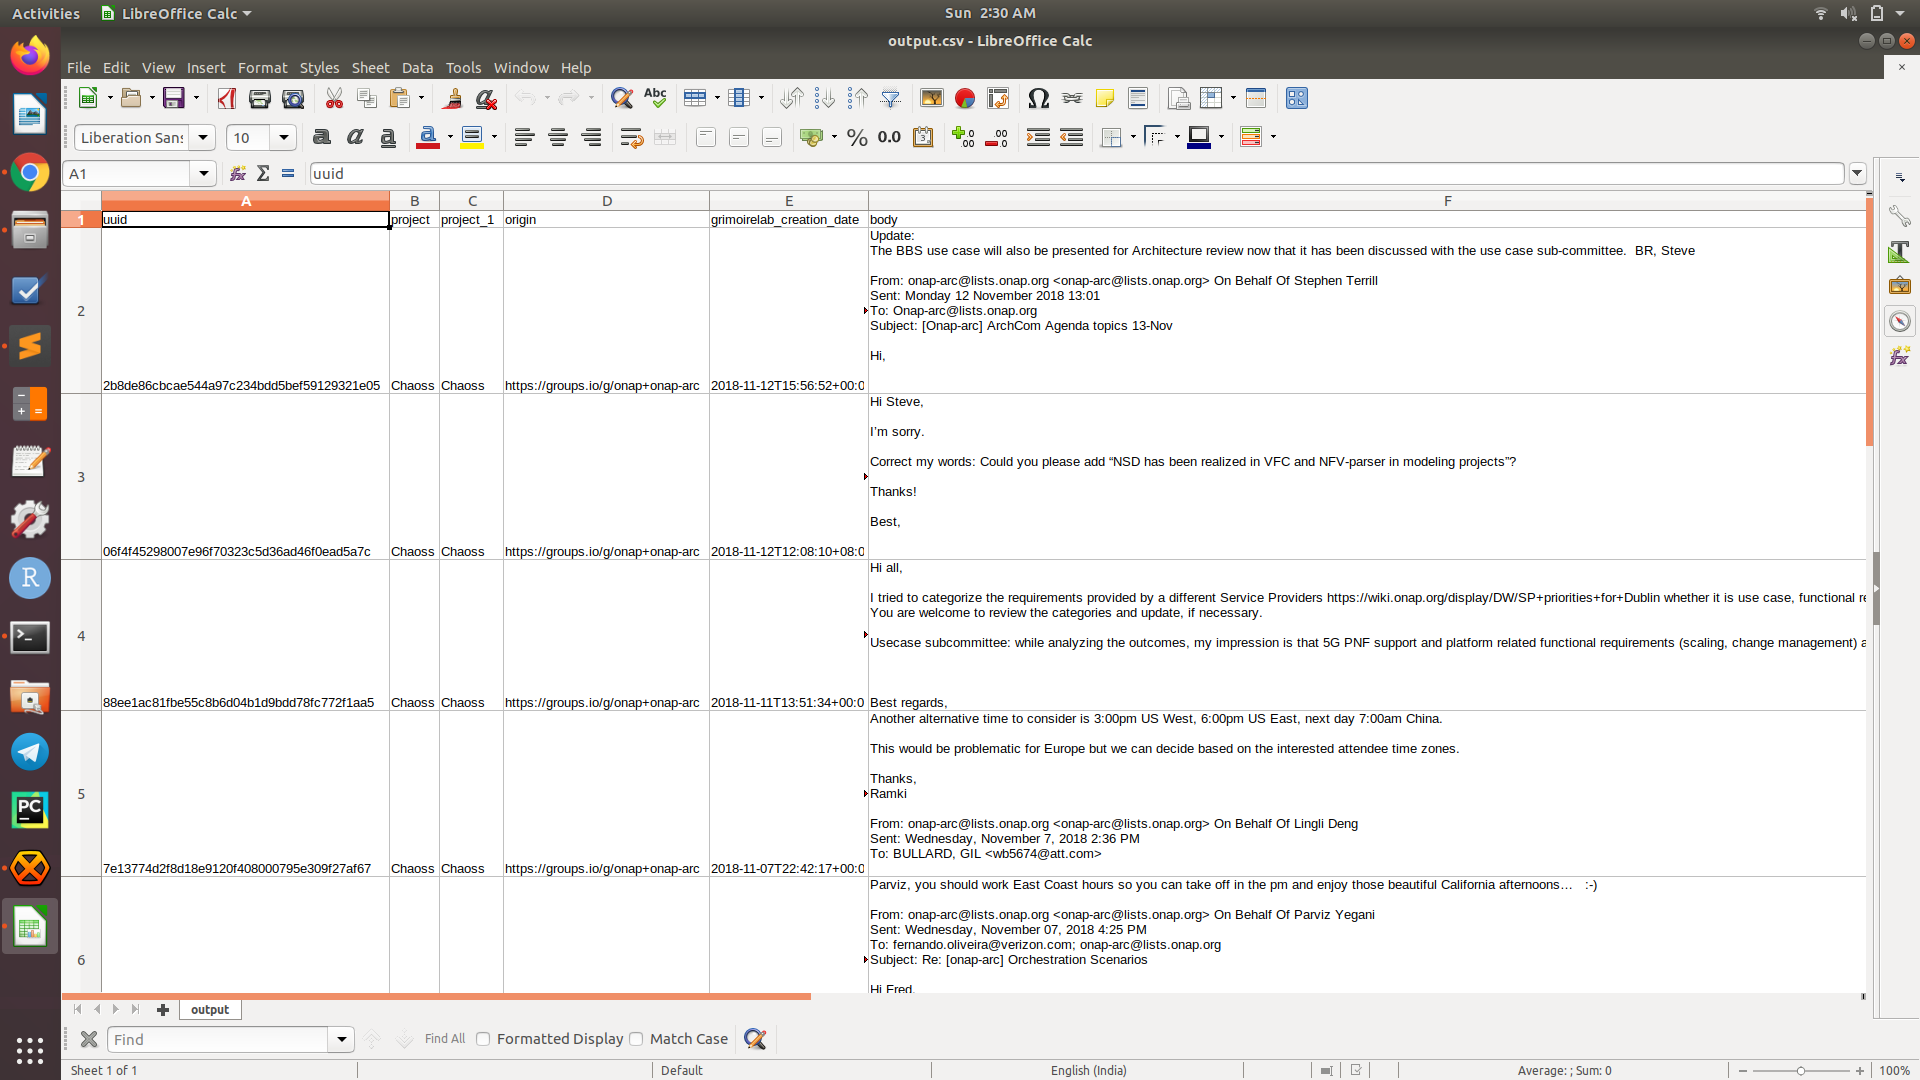
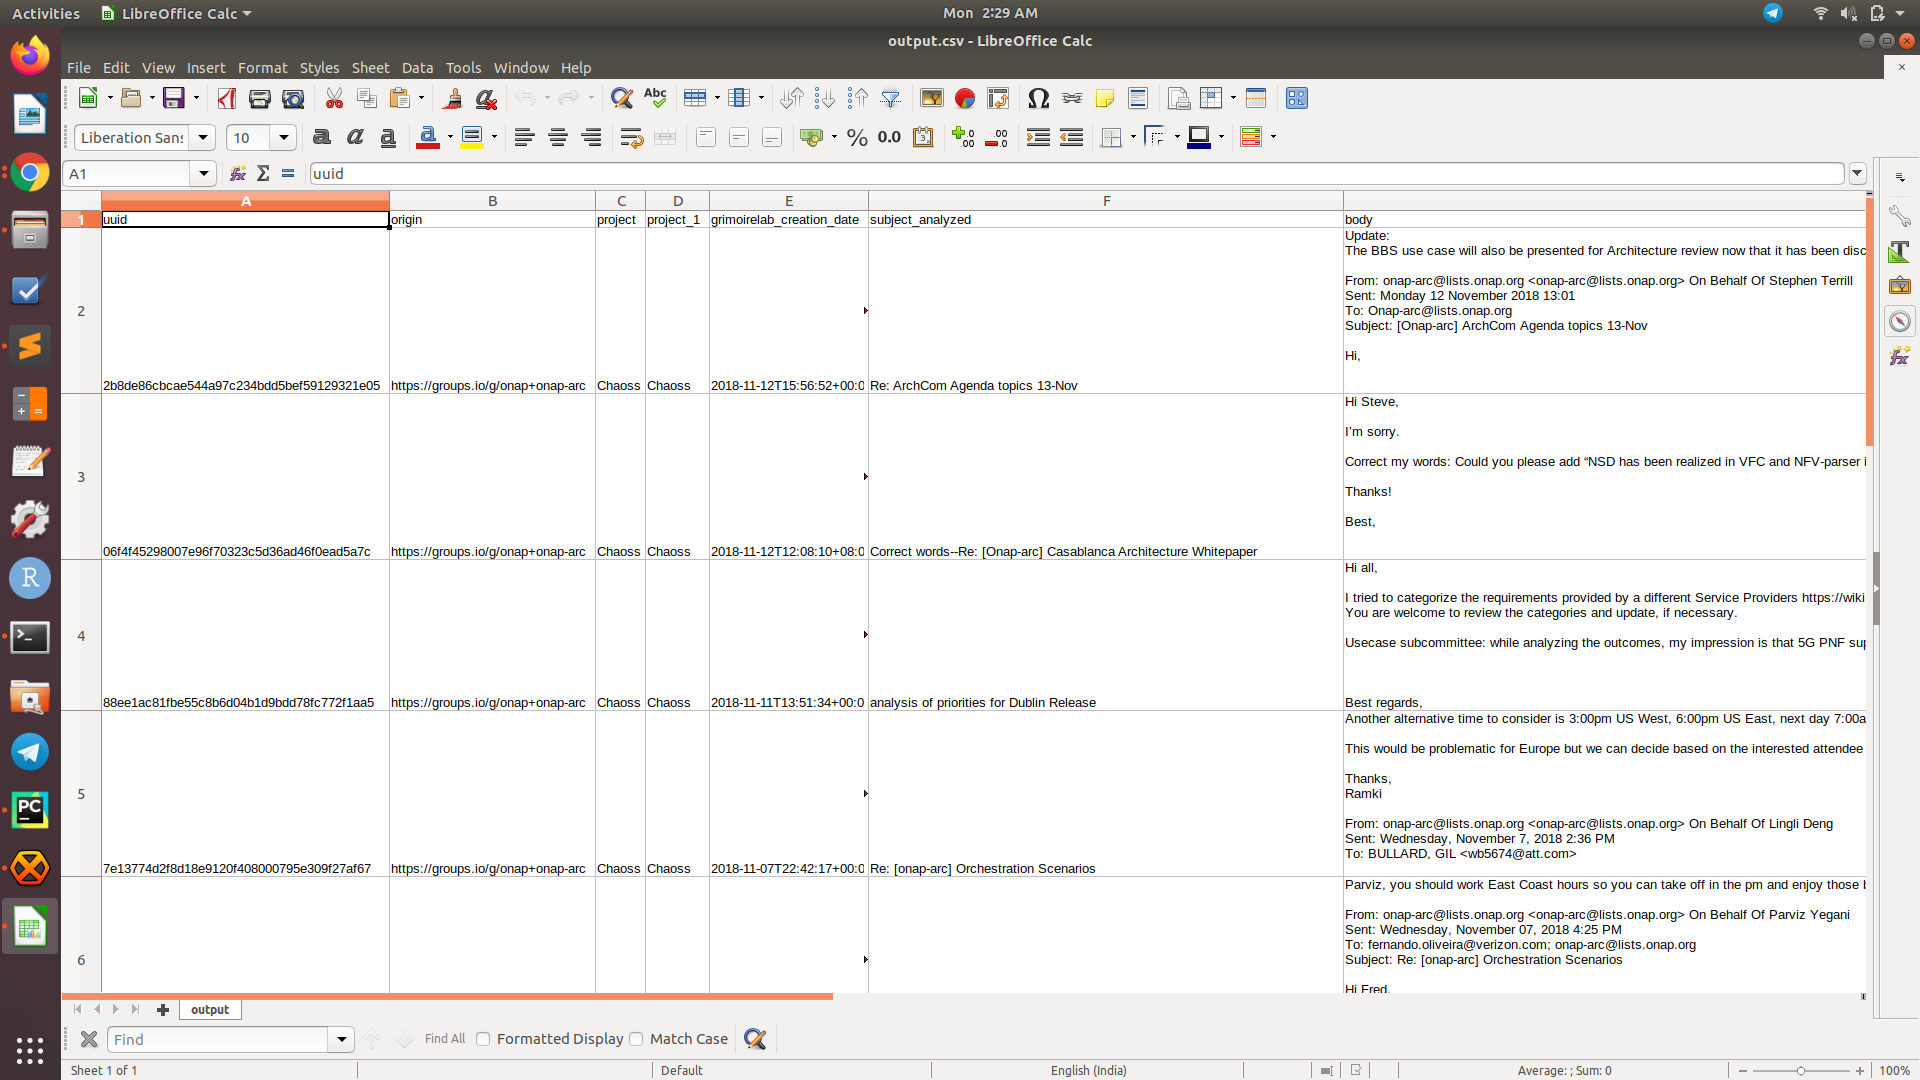
Updated Readme and added comments

diff --git a/Microtask8/script.py b/Microtask8/script.py
@@ -1,48 +1,55 @@
-"""
-Then, write a script to read the enriched index and import the attributes uuid, project, project_1, origin, grimoirelab_creation_date, body and subject_analyzed to a CSV file. 
-
-Import the obtained file to an excel sheet (in a manual or automatic way).
-"""
 from elasticsearch import Elasticsearch
 import csv
 import pandas as pd
+def search():
+	"""
+	Search all data with the index: groupsio_enriched for the attributes like uuid, origin, creation date, body text, subject and projects.
+	"""
+	#making an elasticsearch object
+	es = Elasticsearch()
 
-es = Elasticsearch()
-
-arr_uuid=[]
-arr_origin=[]
-arr_body=[]
-arr_project=[]
-arr_project_1=[]
-arr_subject_analysed=[]
-arr_grimoirelab_creation_date=[]
-
-res = es.search(index="groupsio_enriched", body={"query": {"match_all": {}}})
-for i in range(10):
-	uuid=(res['hits']['hits'][i]['_source']['uuid'])
-	origin=(res['hits']['hits'][i]['_source']['origin'])
-	grimoirelab_creation_date=(res['hits']['hits'][i]['_source']['grimoire_creation_date'])
-	body=(res['hits']['hits'][i]['_source']['body_extract'])
-	subject_analyzed=(res['hits']['hits'][i]['_source']['Subject_analyzed'])
-	project=(res['hits']['hits'][i]['_source']['project'])
-	project_1=(res['hits']['hits'][i]['_source']['project_1'])
-
-	arr_uuid.append(uuid)
-	arr_origin.append(origin)
-	arr_grimoirelab_creation_date.append(grimoirelab_creation_date)
-	arr_body.append(body)
-	arr_subject_analysed.append(subject_analyzed)
-	arr_project.append(project)
-	arr_project_1.append(project_1)
+	#arrays of attributes to be represented in a dataframe.
+	arr_uuid=[]
+	arr_origin=[]
+	arr_body=[]
+	arr_project=[]
+	arr_project_1=[]
+	arr_subject_analysed=[]
+	arr_grimoirelab_creation_date=[]
 
 
-df=pd.DataFrame({'uuid':arr_uuid,'origin':arr_origin,'project':arr_project,'project_1':arr_project,'grimoirelab_creation_date':arr_grimoirelab_creation_date,'subject_analyzed':arr_subject_analysed,'body':arr_body})
-print(df)
-df.to_csv("output.csv")
-df.to_excel("output.xlsx", index=None)
+	res = es.search(index="groupsio_enriched", body={"query": {"match_all": {}}})
+	for i in range(10):
+		uuid=(res['hits']['hits'][i]['_source']['uuid'])
+		origin=(res['hits']['hits'][i]['_source']['origin'])
+		grimoirelab_creation_date=(res['hits']['hits'][i]['_source']['grimoire_creation_date'])
+		body=(res['hits']['hits'][i]['_source']['body_extract'])
+		subject_analyzed=(res['hits']['hits'][i]['_source']['Subject_analyzed'])
+		project=(res['hits']['hits'][i]['_source']['project'])
+		project_1=(res['hits']['hits'][i]['_source']['project_1'])
+
+		arr_uuid.append(uuid)
+		arr_origin.append(origin)
+		arr_grimoirelab_creation_date.append(grimoirelab_creation_date)
+		arr_body.append(body)
+		arr_subject_analysed.append(subject_analyzed)
+		arr_project.append(project)
+		arr_project_1.append(project_1)
 
 
+	df=pd.DataFrame({'uuid':arr_uuid,'origin':arr_origin,'project':arr_project,'project_1':arr_project_1,'grimoirelab_creation_date':arr_grimoirelab_creation_date,'subject_analyzed':arr_subject_analysed,'body':arr_body})
 
-"""Ref:
-https://elasticsearch-py.readthedocs.io/en/master/
-"""
+	convert_csv(df)
+	convert_xlsx(df)
+
+def convert_csv(df):
+	df.to_csv("output.csv",index=None)
+def convert_xlsx(df):
+	df.to_excel("output.xlsx", index=None)
+
+def main():
+	search()
+	print("Output files are output.csv and output.xlsx")
+
+if __name__ == "__main__":
+    main()

diff --git a/Microtask8/README.md b/Microtask8/README.md
@@ -20,7 +20,7 @@ Then, write a script to read the enriched index and import the attributes uuid, 
 }
 ```
 
-3. Add groupsio sectoin in [setup.cfg](https://github.com/ria18405/Microtasks/blob/master/Microtask8/assets/setup.cfg) file.
+3. Add groupsio section in [setup.cfg](https://github.com/ria18405/Microtasks/blob/master/Microtask8/assets/setup.cfg) file.
 
 4. Run micro.py with configuration with backends= groupsio 
 	i.e ```--raw --enrich --panels --cfg ./setup.cfg --backends groupsio```
@@ -33,11 +33,19 @@ Then, write a script to read the enriched index and import the attributes uuid, 
 
 Run the [script.py](https://github.com/ria18405/Microtasks/blob/master/Microtask8/file.py) as 
 	`python3 script.py`
+
+Output : "Output files are output.csv and output.xlsx"
+
 I have only taken 10 data rows for illustration.
+
 
 A new output.csv and output.xlsx file will be made and all data i.e uuid, project, project_1, origin, grimoirelab_creation_date, body and subject_analyzed will be stored in a output.csv file. 
 
-![Image description](https://github.com/ria18405/Microtasks/blob/master/Microtask8/assets/newcsv.png)
+![Image description](https://github.com/ria18405/Microtasks/blob/master/Microtask8/assets/csv.png)
 
 
 ![Image description](https://github.com/ria18405/Microtasks/blob/master/Microtask8/assets/excel.png)
+
+
+Ref:
+https://elasticsearch-py.readthedocs.io/en/master/

diff --git a/README.md b/README.md
@@ -1,6 +1,6 @@
 # CHAOSS OUTREACHY 2020 MICROTASKS
 
-## Implement the Social Currency Metrics System in GrimoireLabs #288
+## [Implement the Social Currency Metrics System in GrimoireLabs #288](https://github.com/chaoss/grimoirelab/issues/288)
 
 LIST OF MICROTASKS : 
 
